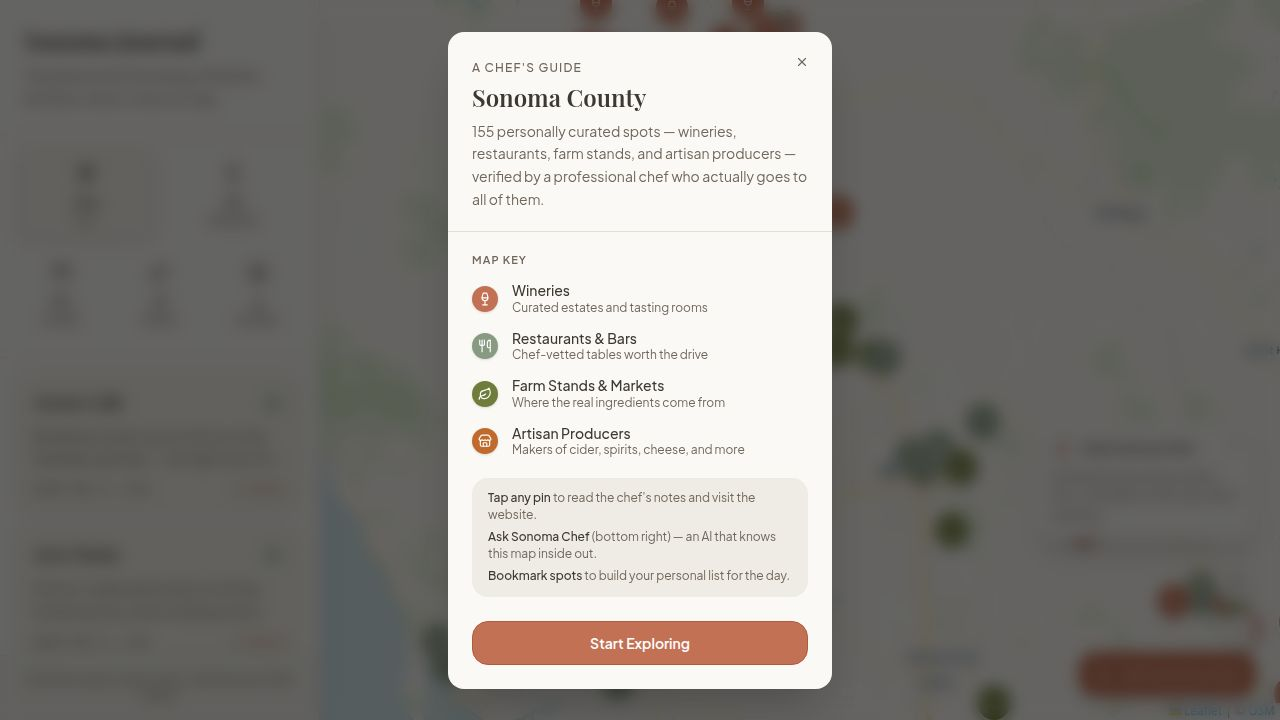
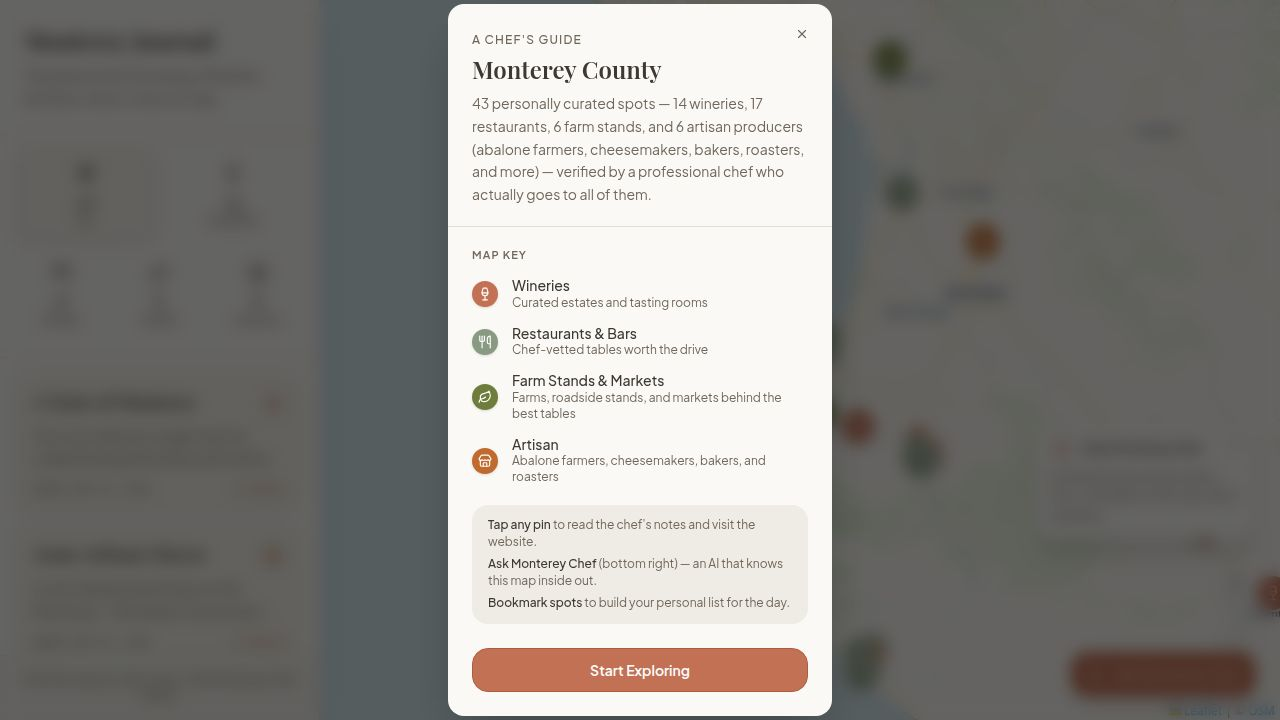
Update artisan descriptions and labels across web and mobile apps
Refactors artifact labeling and descriptive text from "Makers" to "Artisan" across the web and mobile applications, including updates to Sidebar.tsx, WelcomeOverlay.tsx, and index.tsx.

Replit-Commit-Author: Agent
Replit-Commit-Session-Id: 7247de2e-054b-484f-afea-c9692d1eb50b
Replit-Commit-Checkpoint-Type: full_checkpoint
Replit-Commit-Event-Id: e38ad29c-bca6-4beb-9b26-014c7ae43590
Replit-Commit-Screenshot-Url: https://storage.googleapis.com/screenshot-production-us-central1/5dfb201e-1aa7-461a-b7b8-54d3d277f65d/7247de2e-054b-484f-afea-c9692d1eb50b/ro2PFWD
Replit-Helium-Checkpoint-Created: true

diff --git a/artifacts/sonoma-mobile/app/(tabs)/index.tsx b/artifacts/sonoma-mobile/app/(tabs)/index.tsx
@@ -42,7 +42,7 @@ const CATEGORY_LABELS: Record<Category, string> = {
   winery: "Wineries",
   restaurant: "Dining",
   farmstand: "Farms",
-  producer: "Makers",
+  producer: "Artisan",
 };
 
 const CATEGORY_ICON_MAP: Record<Category, IoniconsName> = {
@@ -57,7 +57,7 @@ const MAP_FILTERS: { key: MapFilter; label: string; icon: IoniconsName }[] = [
   { key: "winery", label: "Wineries", icon: "wine-outline" },
   { key: "restaurant", label: "Dining", icon: "restaurant-outline" },
   { key: "farmstand", label: "Farms", icon: "leaf-outline" },
-  { key: "producer", label: "Makers", icon: "storefront-outline" },
+  { key: "producer", label: "Artisan", icon: "storefront-outline" },
 ];
 
 function getCategoryColor(category: Category, colors: ReturnType<typeof useColors>) {
@@ -137,7 +137,7 @@ interface SpotSheetProps {
 }
 
 function buildShareMessage(spot: MarkerType) {
-  const catLabel = spot.category === "winery" ? "Winery" : spot.category === "restaurant" ? "Dining" : spot.category === "producer" ? "Producer" : "Farm Stand";
+  const catLabel = spot.category === "winery" ? "Winery" : spot.category === "restaurant" ? "Dining" : spot.category === "producer" ? "Artisan" : "Farm Stand";
   const parts: string[] = [
     `${spot.name} — ${catLabel} in Monterey County`,
     "",
@@ -154,7 +154,7 @@ function SpotDetailModal({ spot, onClose, onToggleSave, isSaved, onDelete, isDel
 
   const catColor = getCategoryColor(spot.category as Category, colors);
   const catIcon = getCategoryIcon(spot.category as Category);
-  const catLabel = spot.category === "winery" ? "Winery" : spot.category === "restaurant" ? "Dining" : spot.category === "producer" ? "Producer" : "Farm";
+  const catLabel = spot.category === "winery" ? "Winery" : spot.category === "restaurant" ? "Dining" : spot.category === "producer" ? "Artisan" : "Farm";
   const saved = isSaved(spot.id);
 
   const handleShare = async () => {
@@ -252,7 +252,7 @@ function SpotDetailPanel({ spot, onClose, onToggleSave, isSaved, onDelete, isDel
 
   const catColor = getCategoryColor(spot.category as Category, colors);
   const catIcon = getCategoryIcon(spot.category as Category);
-  const catLabel = spot.category === "winery" ? "Winery" : spot.category === "restaurant" ? "Dining" : spot.category === "producer" ? "Producer" : "Farm";
+  const catLabel = spot.category === "winery" ? "Winery" : spot.category === "restaurant" ? "Dining" : spot.category === "producer" ? "Artisan" : "Farm";
   const saved = isSaved(spot.id);
 
   const handleShare = async () => {
@@ -358,8 +358,8 @@ const PIN_LEGEND = [
   },
   {
     category: "producer" as Category,
-    label: "Artisan Producers",
-    description: "Makers of cider, spirits, cheese, and more",
+    label: "Artisan",
+    description: "Abalone farmers, cheesemakers, bakers, and roasters",
   },
 ];
 
@@ -395,7 +395,7 @@ function WelcomeSplashModal({ visible, onClose }: { visible: boolean; onClose: (
               Monterey County
             </Text>
             <Text style={[styles.welcomeSubtitle, { color: colors.mutedForeground }]}>
-              {total} personally curated spots — {wineries} wineries, {restaurants} restaurants, {farmstands} farm stands, and {producers} artisan producers (creameries, cideries, spirits, and more) — verified by a professional chef who actually goes to all of them.
+              {total} personally curated spots — {wineries} wineries, {restaurants} restaurants, {farmstands} farm stands, and {producers} artisan producers (abalone farmers, cheesemakers, bakers, roasters, and more) — verified by a professional chef who actually goes to all of them.
             </Text>
           </View>
 

diff --git a/artifacts/sonoma-map/src/components/WelcomeOverlay.tsx b/artifacts/sonoma-map/src/components/WelcomeOverlay.tsx
@@ -28,8 +28,8 @@ const PIN_TYPES = [
   },
   {
     icon: Store,
-    label: "Artisan Producers",
-    description: "Makers of cider, spirits, cheese, and more",
+    label: "Artisan",
+    description: "Abalone farmers, cheesemakers, bakers, and roasters",
     color: "bg-[#c06a2d]",
   },
 ];
@@ -63,7 +63,7 @@ export function WelcomeOverlay({ open, onClose }: WelcomeOverlayProps) {
             Monterey County
           </h1>
           <p className="text-sm text-muted-foreground mt-2 leading-relaxed">
-            {total} personally curated spots — {wineries} wineries, {restaurants} restaurants, {farmstands} farm stands, and {producers} artisan producers (creameries, cideries, spirits, and more) — verified by a professional chef who actually goes to all of them.
+            {total} personally curated spots — {wineries} wineries, {restaurants} restaurants, {farmstands} farm stands, and {producers} artisan producers (abalone farmers, cheesemakers, bakers, roasters, and more) — verified by a professional chef who actually goes to all of them.
           </p>
         </div>
 

diff --git a/artifacts/sonoma-map/src/components/Sidebar.tsx b/artifacts/sonoma-map/src/components/Sidebar.tsx
@@ -121,7 +121,7 @@ export function Sidebar({ activeFilter, setActiveFilter }: SidebarProps) {
             <span className="text-xl font-serif font-medium leading-none mb-1 text-foreground">
               {statsLoading ? "-" : producers}
             </span>
-            <span className="text-[10px] uppercase tracking-wider text-muted-foreground font-medium">Makers</span>
+            <span className="text-[10px] uppercase tracking-wider text-muted-foreground font-medium">Artisan</span>
           </button>
         </div>
       </div>
